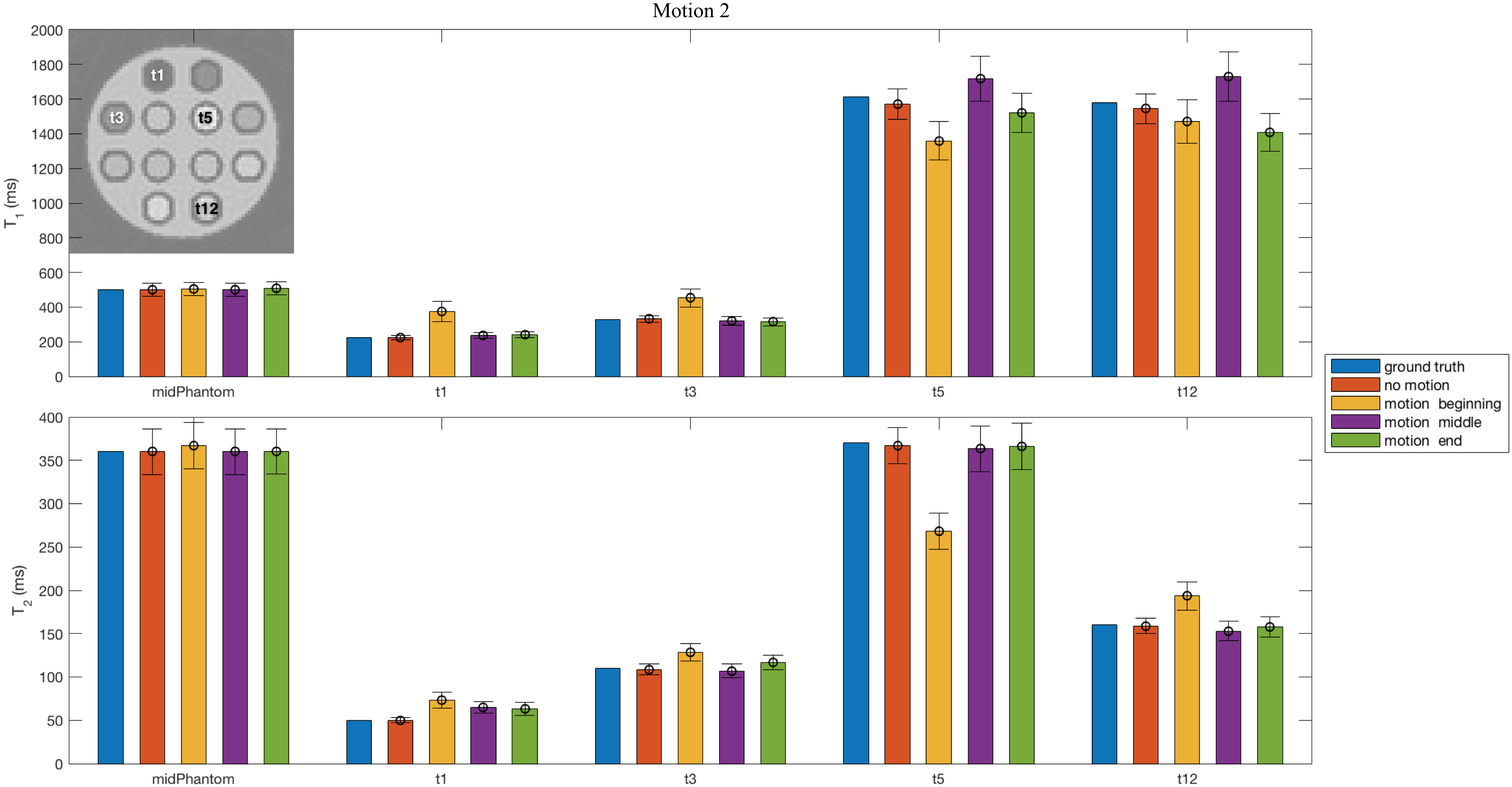
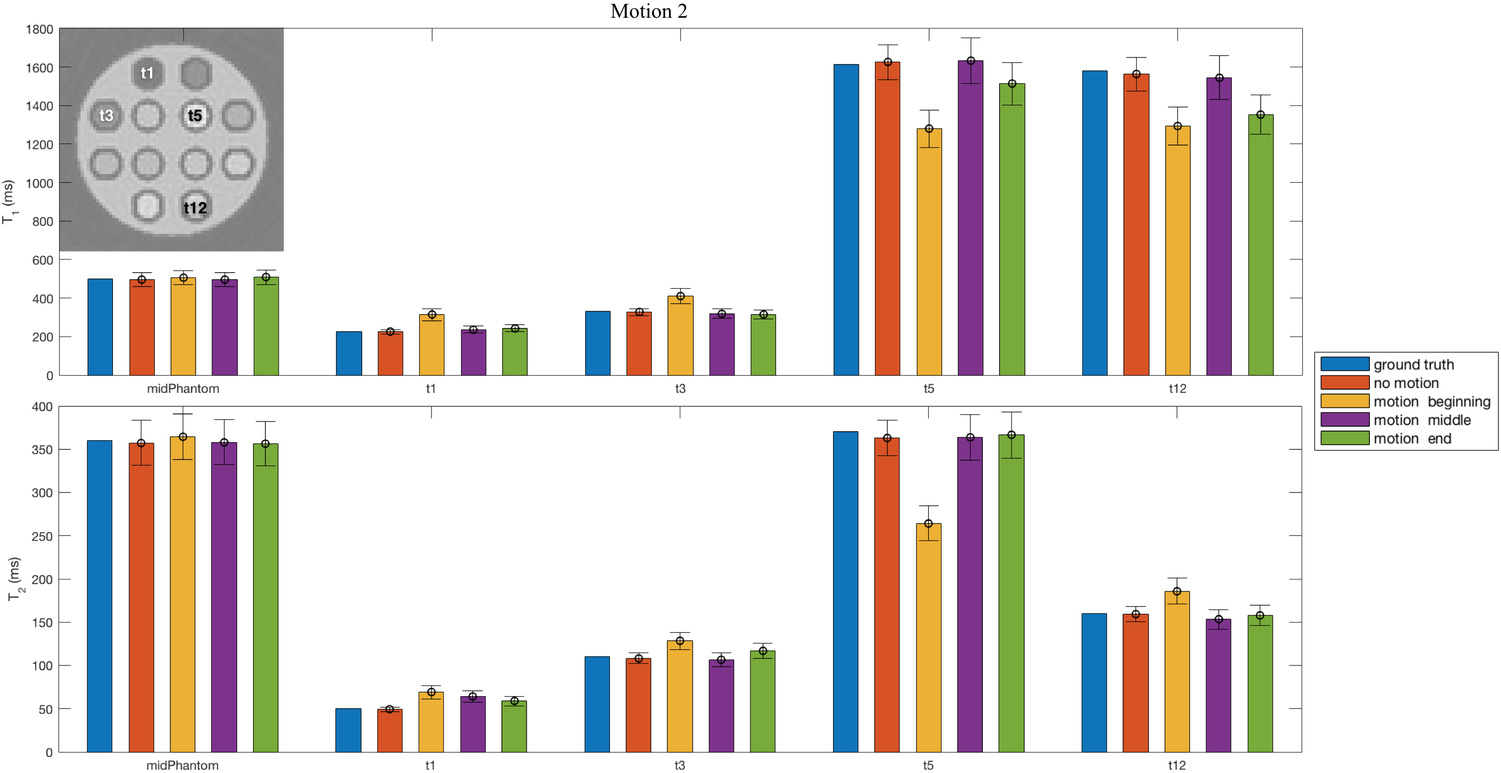
final version

diff --git a/Chapter3/Chapter3P2Results.tex b/Chapter3/Chapter3P2Results.tex
@@ -8,7 +8,7 @@ and I finalize with a discussion about the motion corrupted datasets.
 \subsection{Dictionary Results}
 
 Two sets of dictionaries were generated using the methods described in Section~\ref{method:dictionary}.
-I chose an acquisition sequence of $N = 500$ repetition blocks, and kept constant both the $T_R = 15ms$ and $T_E = 7.5ms$.
+The acquisition sequence consisted of $N = 500$ repetition blocks, with both the repetition time and the echo time kept constant: $T_R = 15ms$ and $T_E = 7.5ms$.
 The only sequence parameters that were varied from one acquisition to the next were the flip angles.
 Figure~\ref{fig:FAsMaryia} shows the flip angles used for simulating the MRF dictionaries. 
 % As the long term goal of my PhD project is to simulate the MRF-FISP sequence, I have chosen the shape of the flip angle distribution according to an MRF-FISP acquisition sequence which was used to acquire MRF data in a real experiment.
@@ -25,8 +25,10 @@ Figure~\ref{fig:FAsMaryia} shows the flip angles used for simulating the MRF dic
 
 The ranges of $T_1$ and $T_2$ values for this study were chosen to cover a wide range of typical relaxation times of the TO5 phantom.
 Thus, $T_1$ values were chosen between $100ms$ and $2000ms$ with a $5ms$ increment, while
-$T_2$ values were chosen between $20ms$ and $200ms$ with a $5ms$ increment and between $350ms$ and $400ms$ with a $10ms$ increment.
-By applying both methods, two dictionaries, each consisting of $15,843$ entries with $500$ time points, were generated.
+% $T_2$ values were chosen between $20ms$ and $200ms$ with a $5ms$ increment and between $350ms$ and $400ms$ with a $10ms$ increment.
+% By applying both methods, two dictionaries, each consisting of $15,843$ entries with $500$ time points, were generated.
+$T_2$ values were chosen between $20ms$ and $200ms$ with a $5ms$ increment and between $210ms$ and $400ms$ with a $10ms$ increment.
+By applying both methods, two dictionaries, each consisting of $20,687$ entries with $500$ time points, were generated.
 A set of representative dictionary entries are shown in Figure~\ref{fig:mrfDictionaries} with a),c) $T_1$ values ranging from $200ms$ to $800ms$ with $100ms$ increment and $T_2$ fixed to $20ms$; and b),d) $T_2$ values ranging from $20ms$ to $80ms$ with $10ms$ increment and $T_1$ fixed to $100ms$.
 Next, I will describe some of the key features of the simulated signals.
 
@@ -141,14 +143,14 @@ Moreover, the voxel-wise pattern matching scores are above 0.95 everywhere insid
 Figure~\ref{fig:nomotionExampleSignals} shows two examples of image space signals and their corresponding dictionary match.
 Both matching scores are very high and the retrieved fingerprints correspond to the ground truth values. 
 
-\begin{figure}[ht]
+\begin{figure}[H]
     \centering
-    \begin{subfigure}[b]{.75\textwidth}
+    \begin{subfigure}[b]{.7\textwidth}
         \includegraphics[width=\textwidth]{images/mrf/nomotionExampleSignalsa}
         \caption{The image space signal (blue dashed) matched to the fingerprint (red) corresponding to $T_1 = 500ms$ and $T_2 = 360ms$, with a matching score of 0.99.}
     \end{subfigure}
     
-    \begin{subfigure}[b]{.75\textwidth}
+    \begin{subfigure}[b]{.7\textwidth}
         \includegraphics[width=\textwidth]{images/mrf/nomotionExampleSignalsb}
         \caption{The image space signal (blue dashed) matched to the fingerprint (red) corresponding to $T_1 = 225ms$ and $T_2 = 50ms$, with a matching score of 0.99}
     \end{subfigure}
@@ -158,7 +160,6 @@ Both matching scores are very high and the retrieved fingerprints correspond to 
     \label{fig:nomotionExampleSignals}
 \end{figure}
 
-\hfill
 
 % % % % % % % % % % % % % % % % 
 \subsubsection{Motion Corrupted Results}
@@ -167,63 +168,151 @@ The second set of results corresponds to the motion corrupted simulations.
 These maps are shown in Figure~\ref{fig:T1mapsmotion} and in Figure~\ref{fig:T2mapsmotion}, while the corresponding matching scores are in Appendix~\ref{appendixlabelMotion}.
 Again, a mask was applied to eliminate the noise surrounding the object.
 
-% T1 maps motion
-\begin{figure}[ht]
-    \centering
-    \includegraphics[width=0.75\textwidth]{images/mrf/T1mapsmotion}
-    \caption{Motion corrupted $T_1$ quantitative maps for all 9 types of motion traces. First column corresponds to the \textit{motion 1} trace (continuous rotation about the z-axis), the second column corresponds to the \textit{motion 2} trace (continuous translation along the y-axis) and the third column corresponds to the \textit{motion 3} trace (continuous rotation about the z-axis and continuous translation along the y-axis). Different lines correspond to a different onset of motion. }
-    \label{fig:T1mapsmotion}
-\end{figure}
-
 \hfill
 
 The results show that, despite of the motion, the morphological structures of the phantom are well preserved in the $T_1$ and $T_2$ maps. 
 However, the surrounding areas around each tube do not show the same sharpness as before.
 Qualitatively, both $T_1$ and $T_2$ maps seem to be most affected when motion happens at the beginning of the scan, while the least affected maps are those when motion happens in the middle of the scan.
 
+\hfill
+
+To quantify the deviations from the ground truth values, I performed a region of interest analysis.
+This consisted of calculating the mean and standard deviation in the simulated $T_1$ and $T_2$ values obtained in each of the inner tubes of the digital phantom in the motion free and motion corrupted data set and comparing them to the ground truth values.
+The difference in absolute value between the simulated results and the ground truth values are shown in Figure~\ref{fig:GTMinusSimuAbsoluteDifference} for both the $T_1$ maps and the $T_2$ maps.
+The first important feature to observe in these results is that the region of interest positioned in the middle of the phantom is least affected by the motion.
+This is to be expected for motion happening at any time point during the scan as the rotation's axis is going through this middle point and the translation is happening along a line which does not intersect any other structures.
+Next, the figure also shows that reconstructed $T_1$ values are affected the most when the motion happens in the beginning or at the end of the scan, while the $T_2$ values are effected the most when the motion happens at the beginning of the scan.
+
+\hfill
+
+The most affected reconstructed values correspond to the $5^{th}$ tube for both $T_1$ and $T_2$ values, and for the $5^{th}$, the $11^{th}$ and the $12^{th}$ tubes for the $T_1$ values.
+To understand why, I plot in Figure~\ref{fig:problematicfingerprints} the dictionary fingerprints corresponding to $T_1$ and $T_2$ values which are close to the problematic tubes.
+Moreover, I highlight the areas where the motion is happening for the three different onsets.
+When $T_2$ is fixed, the fingerprints are very close together, especially in the middle of the sequence.
+This explains why the $T_1$ maps are mostly affected when motion happens in the beginning of the sequence as there is where the dictionary match carries more significance.
+Also, the last 50 repetition blocks in the sequence show a `spread' in the signals, which can explain why the $T_1$ maps can also be affected when motion is happening at the end of the scan.
+When $T_1$ is fixed, the fingerprints are close together in the middle and at the end, which explains why it is more important that the signals are matched correctly at the beginning of the scan and why the $T_2$ maps are mostly affected when that happens.
+
+\begin{figure}[ht]
+    \centering
+    \begin{subfigure}[b]{.85\textwidth}
+        \includegraphics[width=\textwidth]{images/mrf/FixedT2VaryT1TubesMotion}
+        \caption{Dictionary fingerprints corresponding to a range of $T_1$ values and a fixed $T_2$ value}
+    \end{subfigure}
+    
+    \begin{subfigure}[b]{.85\textwidth}
+        \includegraphics[width=\textwidth]{images/mrf/FixedT1VaryT2TubesMotion}
+        \caption{Dictionary fingerprints corresponding to a range of $T_2$ values and a fixed $T_1$ value}
+    \end{subfigure}
+    
+    \caption{Example fingerprints for $T_1$ and $T_2$ values corresponding to the most affected phantom tubes}
+    \label{fig:problematicfingerprints}
+\end{figure}
+
+% ROI T1 and T2 average all simulated
+\begin{figure}[ht]
+    \centering
+    \begin{subfigure}[b]{.9\textwidth}
+        \includegraphics[width=\textwidth]{images/mrf/T1GTMinusT1SimuAbsoluteDifference}
+        %\caption{$|T_1^{simulated} - T_1^{ground \, \, truth}|$}
+        \label{fig:T1GTMinusT1SimuAbsoluteDifference}
+    \end{subfigure}
+    
+    \begin{subfigure}[b]{.9\textwidth}
+        \includegraphics[width=\textwidth]{images/mrf/T2GTMinusT2SimuAbsoluteDifference}
+        %\caption{$|T_2^{simulated} - T_2^{ground \, \, truth}|$}
+        \label{fig:T2GTMinusT2SimuAbsoluteDifference}
+    \end{subfigure}
+    
+    \caption{Region of interest analysis on the inner tubes (shown as $T_N$ in the plot) and middle of the phantom (shown as $Mid$ in the plot) for the simulated quantitative a) $T_1$  maps and b) $T_2$ maps.
+    The plot shows the difference in absolute value between the simulated a) $T_1$ maps or b) $T_2$ maps and the ground truth values.
+    Each line corresponds to a different part of the phantom, shown in the upper left corner of the figure, while different columns correspond to different motion types and onsets.
+    The first column corresponds to the no motion case,
+    while the rest correspond to all three types of motion with onset at:
+    the beginning of the scan (first three columns),
+    the middle of the scan (next three columns), and
+    at the end of the scan (last three columns).
+    The ground truth values are found in the table, where the tubes with the highest difference in absolute values for all motion types were highlighted.}
+    \label{fig:GTMinusSimuAbsoluteDifference}
+\end{figure}
+
+% For this, I chose 4 of the inner tubes, corresponding to the $1^{st}$, $3^{rd}$, $5^{th}$ and $12^{th}$ tube, and also an ROI positioned in the middle of the phantom.
+% The results for ground truth, motion free and different onsets of \textit{motion 1} are shown in Figure~\ref{fig:motion1ROI}.
+% The other two types of motion are found in Appendix~\ref{appendixlabelMotion}, in Figure~\ref{fig:appendixmotion2ROI} and Figure~\ref{fig:appendixmotion3ROI}.
+
+% % ROI analysis motion 1
+% \begin{figure}[ht]
+%     \makebox[\textwidth][c]{\includegraphics[width=1.3\textwidth]{images/mrf/motion1ROI}}
+%     \caption{Region of interest analysis on \textit{motion 1} for different motion onsets}
+%     \label{fig:motion1ROI}
+% \end{figure}
+
+\hfill
+
+% The first important feature to observe in these results is that the region of interest positioned in the middle of the phantom is least affected by the motion.
+% This is to be expected for motion happening at any time point during the scan as the rotation's axis is going through this middle point and the translation is happening along a line which does not intersect any other materials.
+
+% % % Put images here:
+% T1 maps motion
+\begin{figure}[ht]
+    \centering
+    \begin{subfigure}[b]{.65\textwidth}
+        \includegraphics[width=\textwidth]{images/mrf/T1mapsmotion}
+        \caption{Motion corrupted $T_1$ maps}
+    \end{subfigure}
+    
+    \begin{subfigure}[b]{.65\textwidth}
+        \includegraphics[width=\textwidth]{images/mrf/T1SimuMinusT1Real}
+        \caption{Difference between $T_1^{motion \, \, corrupted}$ and $T_1^{motion \, \, free}$}
+    \end{subfigure}
+    
+    \caption{Motion corrupted $T_1$ quantitative maps for all 9 types of motion traces. First column corresponds to the \textit{motion 1} trace (continuous rotation about the z-axis), the second column corresponds to the \textit{motion 2} trace (continuous translation along the y-axis) and the third column corresponds to the \textit{motion 3} trace (continuous rotation about the z-axis and continuous translation along the y-axis). Different lines correspond to a different onset of motion.}
+    \label{fig:T1mapsmotion}
+\end{figure}
+% \begin{figure}[ht]
+%     \centering
+%     \includegraphics[width=0.85\textwidth]{images/mrf/T1mapsmotion}
+%     \caption{Motion corrupted $T_1$ quantitative maps for all 9 types of motion traces. First column corresponds to the \textit{motion 1} trace (continuous rotation about the z-axis), the second column corresponds to the \textit{motion 2} trace (continuous translation along the y-axis) and the third column corresponds to the \textit{motion 3} trace (continuous rotation about the z-axis and continuous translation along the y-axis). Different lines correspond to a different onset of motion. }
+%     \label{fig:T1mapsmotion}
+% \end{figure}
+
 % T2 maps motion
 \begin{figure}[ht]
     \centering
-    \includegraphics[width=0.75\textwidth]{images/mrf/T2mapsmotion}
-    \caption{Motion corrupted $T_2$ quantitative maps for all 9 types of motion traces. First column corresponds to the \textit{motion 1} trace (continuous rotation about the z-axis), the second column corresponds to the \textit{motion 2} trace (continuous translation along the y-axis) and the third column corresponds to the \textit{motion 3} trace (continuous rotation about the z-axis and continuous translation along the y-axis). Different lines correspond to a different onset of motion. }
+    \begin{subfigure}[b]{.65\textwidth}
+        \includegraphics[width=\textwidth]{images/mrf/T2mapsmotion}
+        \caption{Motion corrupted $T_2$ maps}
+    \end{subfigure}
+    
+    \begin{subfigure}[b]{.65\textwidth}
+        \includegraphics[width=\textwidth]{images/mrf/T2SimuMinusT2Real}
+        \caption{Difference between $T_2^{motion \, \, corrupted}$ and $T_2^{motion \, \, free}$}
+    \end{subfigure}
+    
+    \caption{Motion corrupted $T_2$ quantitative maps for all 9 types of motion traces. First column corresponds to the \textit{motion 1} trace (continuous rotation about the z-axis), the second column corresponds to the \textit{motion 2} trace (continuous translation along the y-axis) and the third column corresponds to the \textit{motion 3} trace (continuous rotation about the z-axis and continuous translation along the y-axis). Different lines correspond to a different onset of motion.}
     \label{fig:T2mapsmotion}
 \end{figure}
+% \begin{figure}[ht]
+%     \centering
+%     \includegraphics[width=0.85\textwidth]{images/mrf/T2mapsmotion}
+%     \caption{Motion corrupted $T_2$ quantitative maps for all 9 types of motion traces. First column corresponds to the \textit{motion 1} trace (continuous rotation about the z-axis), the second column corresponds to the \textit{motion 2} trace (continuous translation along the y-axis) and the third column corresponds to the \textit{motion 3} trace (continuous rotation about the z-axis and continuous translation along the y-axis). Different lines correspond to a different onset of motion. }
+%     \label{fig:T2mapsmotion}
+% \end{figure}
+% % % END images here:
 
-\hfill
+% The other regions of interest are further from the centre and will all be affected by motion.
+% More specifically, $T_2$ values are most affected when motion is happening at the beginning of the scan, regardless of the type of motion, and least affected when motion is happening in the middle or at the end of the scan.
+% One potential reason for this is that the fingerprints are least discriminative in the middle of the scan for different $T_2$ values (see Figure~\ref{fig:mrfDictionaries} (b)).
+% Similarly, $T_1$ values are also affected by motion happening at the beginning of the scan.
+% In this case, small $T_1$ values (tubes 1 and 3) are always overestimated regardless of the type of motion, while higher $T_1$ values (tubes 5 and 12) are underestimated when translation is occurring.
+% Moreover, motion occurring in the middle of the scan leads to overestimated high $T_1$ values (tubes 5 and 12), but does not affect lower $T_1$ values (tubes 1 and 3).
 
-To quantify these deviations from the motion free results, I performed a region of interest analysis.
-For this, I chose 4 of the inner tubes, corresponding to the $1^{st}$, $3^{rd}$, $5^{th}$ and $12^{th}$ tube, and also an ROI positioned in the middle of the phantom.
-The results for ground truth, motion free and different onsets of \textit{motion 1} are shown in Figure~\ref{fig:motion1ROI}.
-The other two types of motion are found in Appendix~\ref{appendixlabelMotion}, in Figure~\ref{fig:appendixmotion2ROI} and Figure~\ref{fig:appendixmotion3ROI}.
+% \hfill
 
-% ROI analysis motion 1
-\begin{figure}[ht]
-    \makebox[\textwidth][c]{\includegraphics[width=1.3\textwidth]{images/mrf/motion1ROI}}
-    \caption{Region of interest analysis on \textit{motion 1} for different motion onsets}
-    \label{fig:motion1ROI}
-\end{figure}
-
-\hfill
-
-The first important feature to observe in these results is that the region of interest positioned in the middle of the phantom is least affected by the motion.
-This is to be expected for motion happening at any time point during the scan as the rotation's axis is going through this middle point and the translation is happening along a line which does not intersect any other materials.
-
-\hfill
-
-The other regions of interest are further from the centre and will all be affected by motion.
-More specifically, $T_2$ values are most affected when motion is happening at the beginning of the scan, regardless of the type of motion, and least affected when motion is happening in the middle or at the end of the scan.
-One potential reason for this is that the fingerprints are least discriminative in the middle of the scan for different $T_2$ values (see Figure~\ref{fig:mrfDictionaries} (b)).
-Similarly, $T_1$ values are also affected by motion happening at the beginning of the scan.
-In this case, small $T_1$ values (tubes 1 and 3) are always overestimated regardless of the type of motion, while higher $T_1$ values (tubes 5 and 12) are underestimated when translation is occurring.
-Moreover, motion occurring in the middle of the scan leads to overestimated high $T_1$ values (tubes 5 and 12), but does not affect lower $T_1$ values (tubes 1 and 3).
-
-\hfill
-
-However, as shown in Figure~\ref{fig:appendixscoremapsmotion}, the matching scores are still high. 
-I therefore decided to have a closer look at individual signals. 
-Figure~\ref{fig:motion1ROIsignals} shows together the motion free signal (black dashed) and its dictionary match (green dashed), together with the motion corrupted signal (red) and its corresponding dictionary match (blue dashed), for continuous rotation with different onsets (motion type 1).
+To further understand the impact of motion on the simulated maps, I decided to have a closer look at individual signals. 
+Figure~\ref{fig:motion1ROIsignals} shows together the motion free signal (black dashed) and its dictionary match (green dashed), together with the motion corrupted signal (red) and its corresponding dictionary match (blue dashed), for continuous rotation with different onsets.
 The plots show that the motion corrupted signal is matched to a different fingerprint than the motion free signal when the onset is at the beginning or at the end of the scan.
-When motion is happening at the middle of the scan, the matching algorithm still finds the ground truth values.
+When motion is happening in the middle of the scan, the matching algorithm still finds the ground truth values.
 
 % Motion 1 signals
 \begin{figure}[ht]
@@ -239,7 +328,7 @@ Figure~\ref{fig:motion2ROIsignals} shows a similar trend for the second type of 
 However, in this plot a different voxel was chosen which corresponds to a higher $T_1$ value.
 Here, all three types of onset affect the reconstructed values.
 The least affected signal is, again, the one corresponding to motion happening in the middle of the scan, with the transverse relaxation time $T_2$ matched to the ground truth value of $160ms$.
-As stated before, we speculate that the $T_2$ values are least affected here because the dictionary fingerprints are very similar to each other during the onset of motion (see  Figure~\ref{fig:mrfDictionaries} (b)).
+As stated before, we speculate that the $T_2$ values are least affected here because the dictionary fingerprints are very similar to each other during the onset of motion (see  Figure~\ref{fig:problematicfingerprints}).
 
 % Motion 2 signals
 \begin{figure}[ht]

diff --git a/Appendices/MotionQuantitativeMaps.tex b/Appendices/MotionQuantitativeMaps.tex
@@ -6,12 +6,28 @@
     \label{fig:appendixT1mapsmotion}
 \end{figure}
 
+% T1 maps differences motion
+\begin{figure}[ht]
+    \centering
+    \includegraphics[width=1\textwidth]{images/mrf/T1SimuMinusT1Real}
+    \caption{Difference between $T_1^{motion \, \, corrupted}$ and $T_1^{motion \, \, free}$ for all 9 types of motion traces. First column corresponds to the \textit{motion 1} trace (continuous rotation about the z-axis), the second column corresponds to the \textit{motion 2} trace (continuous translation along the y-axis) and the third column corresponds to the \textit{motion 3} trace (continuous rotation about the z-axis and continuous translation along the y-axis). Different lines correspond to a different onset of motion.}
+    \label{fig:T1SimuMinusT1Real}
+\end{figure}
+
 % T2 maps motion
 \begin{figure}[ht]
     \centering
     \includegraphics[width=1\textwidth]{images/mrf/T2mapsmotion}
     \caption{Motion corrupted $T_2$ quantitative maps for all 9 types of motion traces. First column corresponds to the \textit{motion 1} trace (continuous rotation about the z-axis), the second column corresponds to the \textit{motion 2} trace (continuous translation along the y-axis) and the third column corresponds to the \textit{motion 3} trace (continuous rotation about the z-axis and continuous translation along the y-axis). Different lines correspond to a different onset of motion.}
     \label{fig:appendixT2mapsmotion}
+\end{figure}
+
+% T2 maps differences motion
+\begin{figure}[ht]
+    \centering
+    \includegraphics[width=1\textwidth]{images/mrf/T2SimuMinusT2Real}
+    \caption{Difference between $T_2^{motion \, \, corrupted}$ and $T_2^{motion \, \, free}$ for all 9 types of motion traces. First column corresponds to the \textit{motion 1} trace (continuous rotation about the z-axis), the second column corresponds to the \textit{motion 2} trace (continuous translation along the y-axis) and the third column corresponds to the \textit{motion 3} trace (continuous rotation about the z-axis and continuous translation along the y-axis). Different lines correspond to a different onset of motion.}
+    \label{fig:T2SimuMinusT2Real}
 \end{figure}
 
 % Score maps motion
@@ -41,20 +57,23 @@
 % ROI analysis motion 1
 \begin{figure}[ht]
     \makebox[\textwidth][c]{\includegraphics[width=1.4\textwidth]{images/mrf/motion1ROI}}
-    \caption{Region of interest analysis on \textit{motion 1} for different motion onsets}
+    \caption{Region of interest analysis on \textit{motion 1} for different motion onsets.
+    Different colours correspond to different onsets of motion, while different groups of bars correspond to a different part of the phantom, as shown in the upper left image.}
     \label{fig:appendixmotion1ROI}
 \end{figure}
 
 % ROI analysis motion 2
 \begin{figure}[ht]
     \makebox[\textwidth][c]{\includegraphics[width=1.4\textwidth]{images/mrf/motion2ROI}}
-    \caption{Region of interest analysis on \textit{motion 2} for different motion onsets}
+    \caption{Region of interest analysis on \textit{motion 2} for different motion onsets.
+    Different colours correspond to different onsets of motion, while different groups of bars correspond to a different part of the phantom, as shown in the upper left image.}
     \label{fig:appendixmotion2ROI}
 \end{figure}
 
 % ROI analysis motion 3
 \begin{figure}[ht]
     \makebox[\textwidth][c]{\includegraphics[width=1.4\textwidth]{images/mrf/motion3ROI}}
-    \caption{Region of interest analysis on \textit{motion 3} for different motion onsets}
+    \caption{Region of interest analysis on \textit{motion 3} for different motion onsets.
+    Different colours correspond to different onsets of motion, while different groups of bars correspond to a different part of the phantom, as shown in the upper left image.}
     \label{fig:appendixmotion3ROI}
 \end{figure}

diff --git a/Chapter2/Chapter2P2ActiveMRI.tex b/Chapter2/Chapter2P2ActiveMRI.tex
@@ -36,12 +36,12 @@ Table~\ref{table:tableMRISimulators} summarizes the key findings, while the foll
  \begin{tabular}{@{}c@{}c@{}c@{}}\textbf{Solver}\\Bloch\\Bloch-Torrey\\Bloch-McConnell\end{tabular} & \begin{tabular}{@{}c@{}c@{}c@{}}\\$\checkmark$\\\phantom{-}\\\phantom{-}\end{tabular} & \begin{tabular}{@{}c@{}c@{}c@{}}\\$\checkmark$\\\phantom{-}\\$\checkmark$\end{tabular} & \begin{tabular}{@{}c@{}c@{}c@{}}\\$\checkmark$\\$\checkmark$\\\phantom{-}\end{tabular} & \begin{tabular}{@{}c@{}c@{}c@{}}\\$\checkmark$\\\phantom{-}\\$\checkmark$\end{tabular} & \begin{tabular}{@{}c@{}c@{}c@{}}\\$\checkmark$\\\phantom{-}\\\phantom{-}\end{tabular} \\
  \hline
   % % %
- \begin{tabular}{@{}c@{}c@{}}\textbf{Multi-RF}\\Receiving\\Transmitting\end{tabular} & \begin{tabular}{@{}c@{}c@{}}\\\phantom{-}\\\phantom{-}\end{tabular} & 
+ \begin{tabular}{@{}c@{}c@{}}\textbf{Multi-RF}\\Receiving\\Transmitting\end{tabular} & \begin{tabular}{@{}c@{}c@{}}\\$\checkmark$\\$\checkmark$\end{tabular} & 
  \begin{tabular}{@{}c@{}c@{}}\\$\checkmark$\\$\checkmark$\end{tabular} & \begin{tabular}{@{}c@{}c@{}}\\$\checkmark$\\\phantom{-}\end{tabular} & \begin{tabular}{@{}c@{}c@{}}\\$\checkmark$\\$\checkmark$\end{tabular} & \begin{tabular}{@{}c@{}c@{}}\\\phantom{-}\\\phantom{-}\end{tabular}  \\
  \hline
  
  % % %
- \textbf{K-space Visualisation} & \phantom{-} & $\checkmark$ & $\checkmark$ & $\checkmark$ & $\checkmark$ \\
+ \begin{tabular}{@{}c@{}}\textbf{K-space Trajectory}\\\textbf{Visualisation}\end{tabular} & \phantom{-} & $\checkmark$ & $\checkmark$ & $\checkmark$ & $\checkmark$ \\
  \hline
  % % %
  \textbf{Motion} & $\checkmark$ & $\checkmark$ & \phantom{-} & $\checkmark$ & $\checkmark$ \\
@@ -259,6 +259,8 @@ Although a powerful MRI simulator, JEMRIS is not without limitations:
     \item It cannot simulate function (such as \ac{fmri}), perfusion or diffusion-weighted images.
     
     \item It can become slow when simulating large spin systems or highly discretised input objects. 
+    For example, for an input object of $180 \times 180 \times 180mm$ with 3 isochromats per $1mm^3$ (a minimum threshold suggested by \cite{Shkarin1997}) would require a total of $17,500,000$ isochromats.
+    This would take approximately 5 years to run.
     
 \end{itemize}
 
@@ -497,6 +499,7 @@ MRILAB has the following limitations:
 \begin{itemize}
     
     \item It achieves spoiling of the transverse magnetisation through a zeroing event which is not sufficient to model real experiment where complete spoiling is not desired.
+    %: ``In all shown experiments, spoiling of the transverse magnetization was achieved through an external event zeroing the transverse magnetization'' \cite{Liu2017}.
     
     \item It cannot simulate diffusion weighted MRI datasets.
     

diff --git a/Chapter3/Chapter3P3Discussion.tex b/Chapter3/Chapter3P3Discussion.tex
@@ -6,8 +6,7 @@ In this approach, the motion artifacts were introduced during the acquisition of
 
 \hfill
 
-This investigation showed that MRF is prone to errors due to motion.
-Depending on the type of motion and the moment when it occurs, it can affect the final maps differently.
+This investigation shows that MRF may not be as robust to motion as previously suggested and that the severity of its impact is strongly dependent on the type of motion, its onset and the dictionary construction.
 However, motion is not necessarily restricted to in-plane movements.
 Through-plane motion can happen during a real scan and it could have a different impact on the $T_1$ and $T_2$ maps.
 Moreover, a real scan cannot use a fully sampled spiral readout due to hardware constraints, but uses a variable density spiral readout with multiple interleaves.

diff --git a/Chapter4/Chapter4P2WorkPlan.tex b/Chapter4/Chapter4P2WorkPlan.tex
@@ -32,7 +32,7 @@ Future work will focus on five areas:
 	    
 	    In my current implementation the input object consists of 4145 isochromats in total and requires a total time of 12 hours to run.
 	    This means that in order to achieve accurate results I would need to discretise the input object to contain approximately 21 million isochromats.
-	    This would bring the current simulation time to almost a year.
+	    This would bring the current simulation time to almost 6 years.
 	    
 	\end{itemize}
 	
